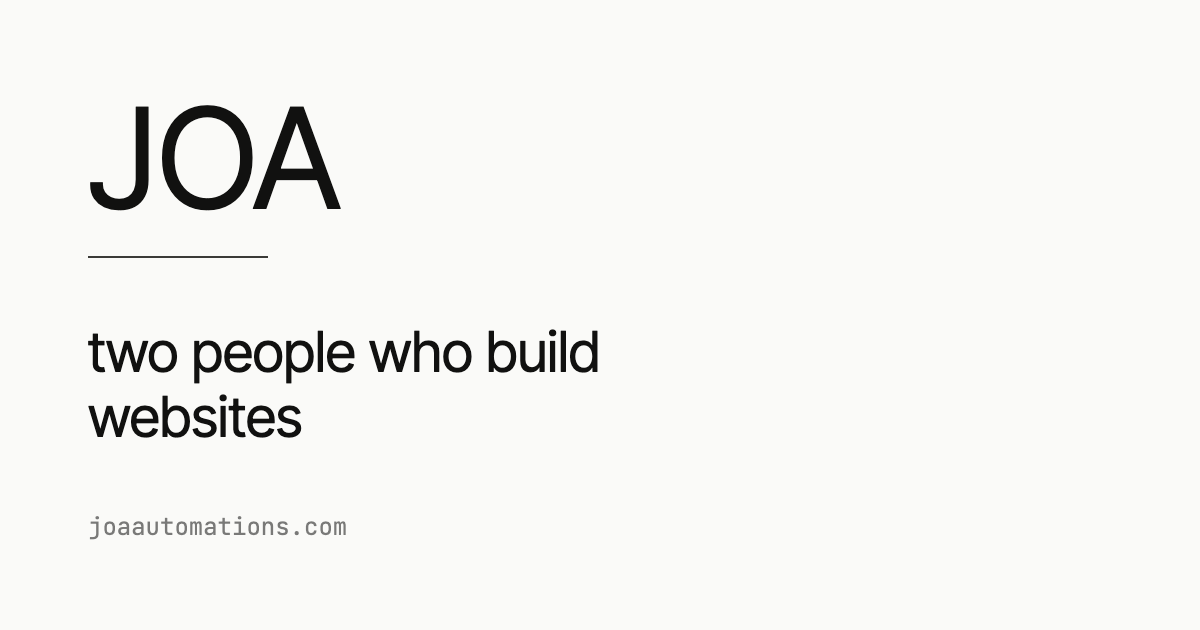
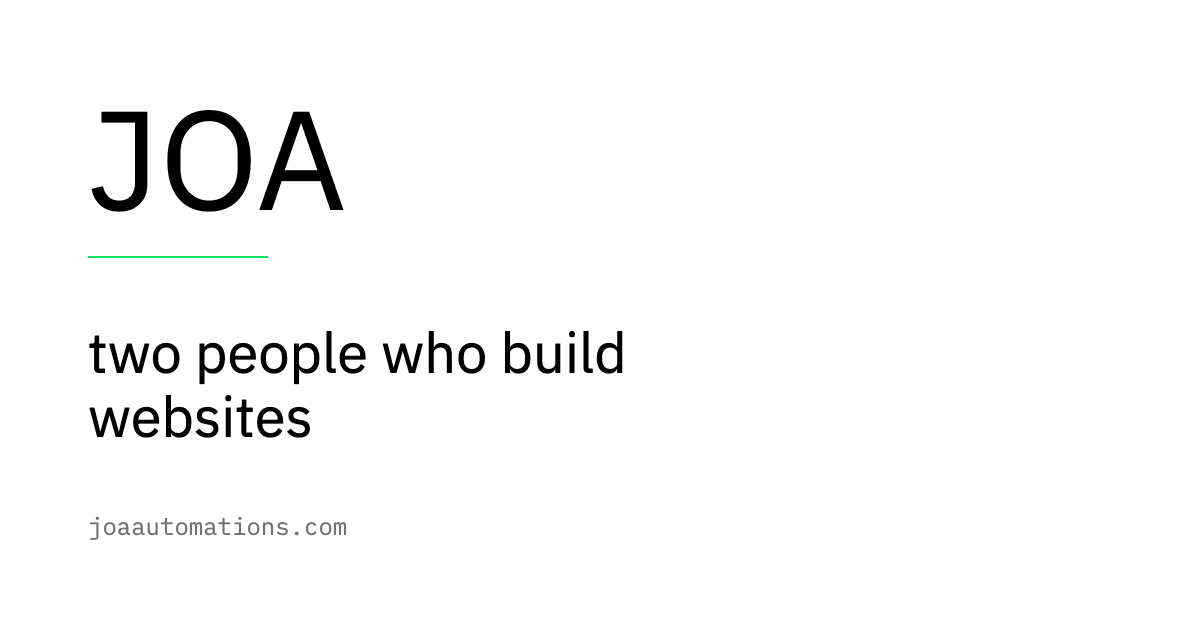
Direction B — signal
True white, true black, one acid green. IBM Plex Sans at 400 for display
and body with its own mono cut for the small text — one family doing
everything, which is the discipline this direction is built on.

The ornament is the bracket and nothing else. Motion is a hard cut: a
120ms clip-path wipe in four steps, so a section reads as a switch being
thrown rather than something easing in.

The green is spent in exactly two places — the service word's fill and
the submit rule — and never on text: #00E05A cannot clear 4.5:1 on white,
so --accent-ink points back at black.

Hero still is an abstracted site-scroll, standing in for the screen
recording the direction calls for until footage exists.

diff --git a/app/globals.css b/app/globals.css
@@ -10,34 +10,30 @@
    direction-a/b/c replace the values, never the token names.
    ============================================================ */
 :root {
-  --paper: #FAFAF8;
-  --ink: #111110;
-  --accent: #3A3A37;
-  /* Text-safe cut of the accent. The accent proper is for rules, fills and
-     borders; anything that colors actual words uses this and has to clear
-     4.5:1 against --paper. B's acid green never colors text, so B points
-     this straight back at its ink. */
-  --accent-ink: #3A3A37;
+  /* Direction B — "Signal".
+     True white, true black, and one acid green. The most confident of the
+     three and the cheapest to execute perfectly — showing our own work as
+     the hero is the strongest argument a web design studio can make. The
+     risk is that with one face and no ornament, sloppy spacing is nakedly
+     visible, so nothing here is allowed to drift. */
+  --paper: #FFFFFF;
+  --ink: #000000;
+  --accent: #00E05A;          /* fills, rules, and the two green moments */
+  --accent-ink: #000000;      /* the green never colours text — it cannot clear 4.5:1 on white */
 
-  /* Work cards sit on the ground by default. C gives them a surface. */
   --card-bg: transparent;
   --card-pad: 0px;
 
-  /* Faces come from next/font in app/fonts.ts. A fork swaps the
-     imports there and leaves these aliases alone. */
+  /* IBM Plex Sans and its own mono cut. Registered in app/fonts.ts. */
   --font-display: var(--font-face-display), ui-sans-serif, system-ui, sans-serif;
   --font-body: var(--font-face-body), ui-sans-serif, system-ui, sans-serif;
   --font-mono: var(--font-face-mono), ui-monospace, SFMono-Regular, monospace;
 
-  /* Hero still. Each fork ships its own bytes at this same path. */
   --hero-poster: url('/hero-poster.jpg');
-  /* All three stills are light-ground compositions, so the bar stays ink
-     over the hero. A direction that lands dark footage in Task B flips
-     this one value and gets the scrim with it. */
   --nav-over-hero: var(--ink);
   --hero-scrim: transparent;
 
-  /* Media weight. C deepens this; A and B keep it flat. */
+  /* Flat, hard-edged. No shadow anywhere in this direction. */
   --media-shadow: none;
   --media-radius: 0px;
 }
@@ -629,4 +625,113 @@ a:focus-visible > .arrow {
 
 .legal__body a {
   border-bottom: 1px solid var(--accent);
+}
+
+
+/* ---------- direction B: brackets, hard cuts, two green moments ---------- */
+
+/* The ornament is the bracket, and there is no graphic at all. */
+.eyebrow__ornament {
+  display: none;
+}
+
+.eyebrow__bracket {
+  display: inline;
+  opacity: 0.35;
+}
+
+.eyebrow {
+  gap: 8px;
+}
+
+/* Motion is a hard cut, not a fade: a 120ms clip-path wipe in four steps,
+   so it reads as a switch throwing rather than something easing in. */
+@media (prefers-reduced-motion: no-preference) {
+  .reveal {
+    opacity: 1;
+    transform: none;
+    clip-path: inset(0 100% 0 0);
+    transition: clip-path 120ms steps(4, end);
+  }
+
+  .reveal.is-in {
+    clip-path: inset(0 0 0 0);
+  }
+}
+
+/* Rules are black hairlines; the green is spent only on the two moments
+   below and never on a rule that runs the width of the page. */
+.work-card {
+  border-top-color: var(--ink);
+}
+
+.work-card__quote {
+  border-left: 3px solid var(--accent);
+}
+
+/* Green moment one: the service word takes a solid block on hover/tap. */
+.services__word {
+  position: relative;
+  isolation: isolate;
+  padding-inline: 6px;
+}
+
+.services__word::before {
+  content: '';
+  position: absolute;
+  inset: 0.1em 0 0.08em;
+  background: var(--accent);
+  clip-path: inset(0 100% 0 0);
+  transition: clip-path 120ms steps(4, end);
+  z-index: -1;
+}
+
+.services__word:hover::before,
+.services__word[aria-expanded='true']::before {
+  clip-path: inset(0 0 0 0);
+}
+
+@media (prefers-reduced-motion: reduce) {
+  .services__word::before {
+    transition: none;
+  }
+}
+
+/* The peek is a hard-edged black plate, cut in rather than sprung. */
+.services__peek {
+  border: 3px solid var(--accent);
+}
+
+@media (prefers-reduced-motion: no-preference) {
+  .services__peek {
+    animation: peek-cut 120ms steps(4, end) both;
+  }
+}
+
+@keyframes peek-cut {
+  from {
+    clip-path: inset(0 0 100% 0);
+  }
+  to {
+    clip-path: inset(0 0 0 0);
+  }
+}
+
+/* Green moment two: the submit rule. */
+.form__submit {
+  border-bottom-width: 3px;
+  border-bottom-color: var(--accent);
+}
+
+.form input:focus,
+.form textarea:focus,
+.form select:focus {
+  border-bottom-color: var(--accent);
+  border-bottom-width: 2px;
+}
+
+.work-card__link:hover,
+.footer__email:hover,
+.legal__body a:hover {
+  border-bottom-color: var(--accent);
 }

diff --git a/app/fonts.ts b/app/fonts.ts
@@ -1,35 +1,32 @@
 /**
- * The direction's two-or-three faces, registered through next/font and
- * exposed as CSS variables only. Components never name a family — they
- * use --font-display / --font-body / --font-mono via Tailwind tokens.
+ * Direction B — "Signal". One face doing everything: IBM Plex Sans at 400
+ * for display and body, and its own mono cut for the small text. The
+ * discipline is the point — with a single family and no ornament, any
+ * sloppy spacing is nakedly visible.
  *
- * A direction fork rewrites this file and the token block in globals.css.
- * Nothing else.
- *
- * Shared base: Inter Tight for display and body, JetBrains Mono for the
- * small text. Neutral on purpose.
+ * Exposed as CSS variables only. Components never name a family.
  */
-import { Inter_Tight, JetBrains_Mono } from 'next/font/google'
+import { IBM_Plex_Sans, IBM_Plex_Mono } from 'next/font/google'
 
-const display = Inter_Tight({
+const sans = IBM_Plex_Sans({
   subsets: ['latin'],
   weight: ['400'],
   variable: '--font-face-display',
   display: 'swap',
 })
 
-const body = Inter_Tight({
+const body = IBM_Plex_Sans({
   subsets: ['latin'],
   weight: ['400'],
   variable: '--font-face-body',
   display: 'swap',
 })
 
-const mono = JetBrains_Mono({
+const mono = IBM_Plex_Mono({
   subsets: ['latin'],
   weight: ['400'],
   variable: '--font-face-mono',
   display: 'swap',
 })
 
-export const fontClassName = `${display.variable} ${body.variable} ${mono.variable}`
+export const fontClassName = `${sans.variable} ${body.variable} ${mono.variable}`
